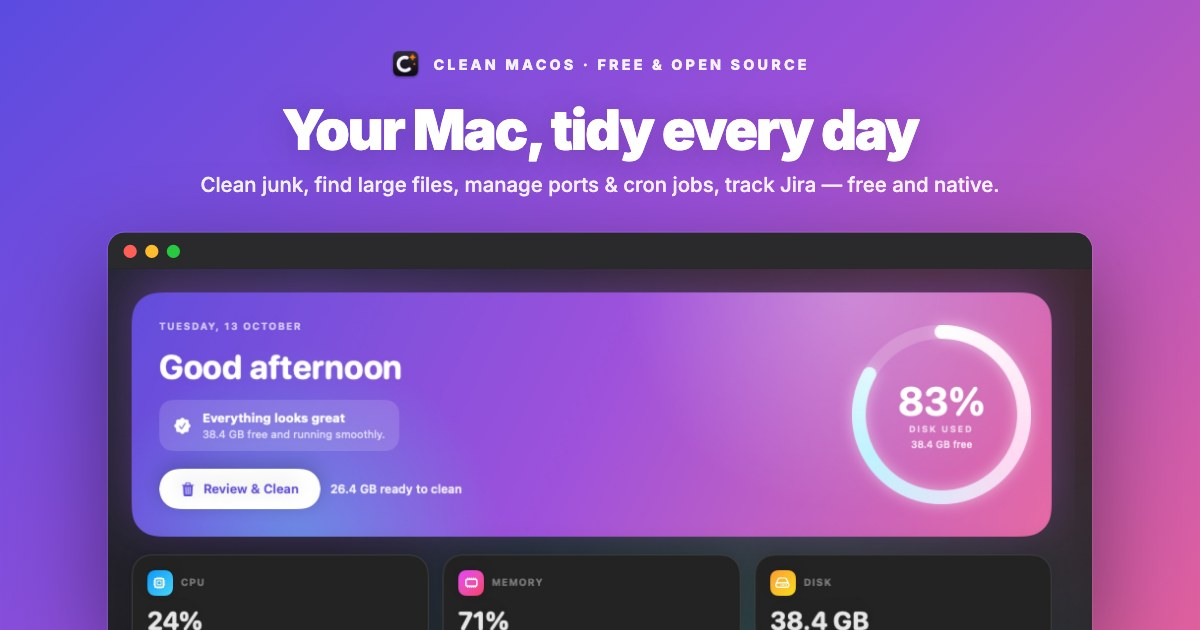
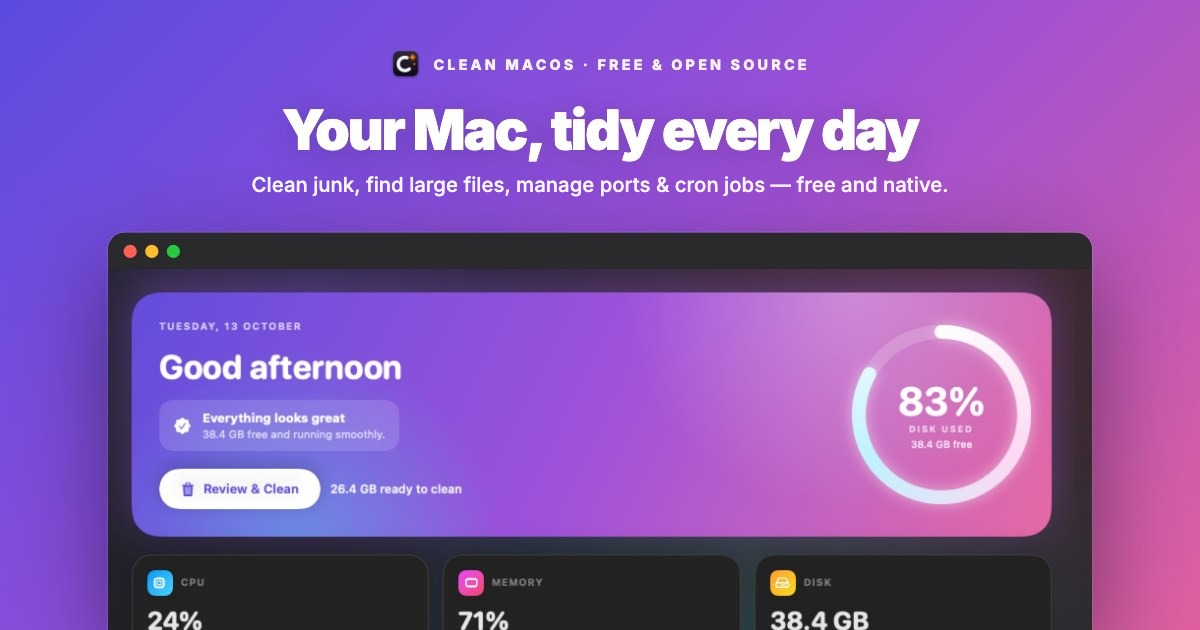
Remove the last Jira traces from the share image and menu bar

Changed region(s): [[0.1542, 0.2714, 0.8325, 0.3317]]

diff --git a/CleanMacOS/Sources/MenuBarView.swift b/CleanMacOS/Sources/MenuBarView.swift
@@ -25,11 +25,11 @@ struct MenuBarView: View {
         .onDisappear { monitor.popoverDidClose() }
     }
 
-    private func openMain(_ show: @escaping @MainActor () -> Void) {
+    private func openMain() {
         let popover = NSApp.keyWindow
         openWindow(id: "main")
         DispatchQueue.main.async {
-            show()
+            MainWindowController.show()
             if popover?.title != MainWindowController.title { popover?.close() }
         }
     }
@@ -39,7 +39,7 @@ struct MenuBarView: View {
             Image(systemName: "sparkles").foregroundStyle(.orange.gradient)
             Text("Clean macOS").font(.system(size: 13, weight: .semibold))
             Spacer()
-            MenuIconButton(systemImage: "macwindow", help: "Open Clean macOS") { openMain(MainWindowController.show) }
+            MenuIconButton(systemImage: "macwindow", help: "Open Clean macOS") { openMain() }
             MenuIconButton(systemImage: "power", help: "Quit") { NSApp.terminate(nil) }
         }
         .padding(.horizontal, 14)
